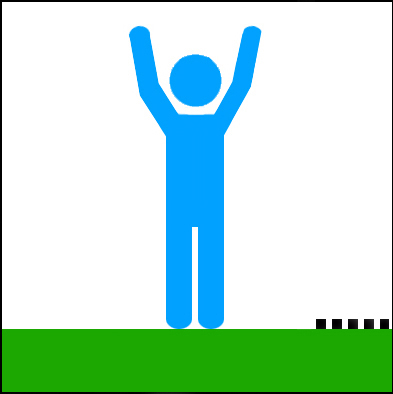
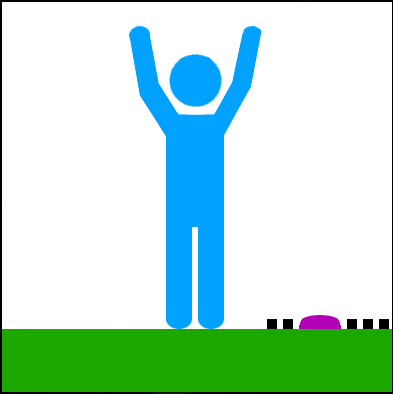
Implementing the winning or losing condition.
Now the user either wins or looses.

Changed region(s): [[0.6718, 0.7919, 0.9771, 0.8528]]

diff --git a/client/src/Games/TugOfWar/TugOfWar.jsx b/client/src/Games/TugOfWar/TugOfWar.jsx
@@ -27,6 +27,7 @@ export default function TugOfWar() {
   const [dice, setDice] = useState(-1);
   const [isDiceUpdated, setIsDiceUpdated] = useState(false);
   const [match1, setMatch1] = useState([Blue1, V1, V1, V1, V1, V1, V1, V2, V1, V1, V1, V1, V1, V1, Red1]);
+  const [finalMessage, setFinalMessage] = useState("");
 
   const handleStart = () => {
     setIsGameStarted(true);
@@ -49,43 +50,82 @@ export default function TugOfWar() {
   };
   const replaceElement = (arrFunc, firstEl, secEl) => {
     arrFunc((currArr) => currArr.map(el => el === firstEl ? secEl : el));
-  }
+  };
   const swapElements = (arrFunc, indexl, index2) => {
     arrFunc(currArr => {
         const newArr = [...currArr];
         [newArr[indexl], newArr[index2]] = [newArr[index2], newArr[indexl]];
         return newArr;
     });
+  };
+  const updateRopes = (arrFunc) => {
+    arrFunc(currArr =>
+        currArr.map(n => (n === V1 || n === V2 ? V3 : n))
+    );
   }
   const userAct = () => {
     if (userColor === "Blue") {
-        replaceElement(setMatch1, match1[0], Blue2);
-        replaceElement(setMatch1, match1[14], Red3);
-        swapElements(setMatch1, match1.indexOf(V2), match1.indexOf(V2) - dice);
+        if (match1.indexOf(V2) - dice < 1) {
+            replaceElement(setMatch1, match1[0], Blue4);
+            replaceElement(setMatch1, match1[14], Red5);
+updateRopes(setMatch1);
+            swapElements(setMatch1, match1.indexOf(V2), match1.indexOf(V2) + 1);
+            setFinalMessage("You Win!");
+        } else {
+            replaceElement(setMatch1, match1[0], Blue2);
+            replaceElement(setMatch1, match1[14], Red3);
+            swapElements(setMatch1, match1.indexOf(V2), match1.indexOf(V2) - dice);
+        }
     } else if (userColor === "Red") {
-        replaceElement(setMatch1, match1[14], Red2);
-        replaceElement(setMatch1, match1[0], Blue3);
-        swapElements(setMatch1, match1.indexOf(V2), match1.indexOf(V2) + dice);
+        if (match1.indexOf(V2) + dice > 13) {
+            replaceElement(setMatch1, match1[14], Red4);
+            replaceElement(setMatch1, match1[0], Blue5);
+updateRopes(setMatch1);
+            swapElements(setMatch1, match1.indexOf(V2), match1.indexOf(V2) - 1);
+            setFinalMessage("You Win!");
+        } else {
+            replaceElement(setMatch1, match1[14], Red2);
+            replaceElement(setMatch1, match1[0], Blue3);
+            swapElements(setMatch1, match1.indexOf(V2), match1.indexOf(V2) + dice);
+        }
     }
     setIsDiceUpdated(false);
     setIsUserTurn(false);
-  }
+  };
   const pejmanAct = () => {
     if (userColor === "Blue") {
-        replaceElement(setMatch1, match1[0], Blue3);
-        replaceElement(setMatch1, match1[14], Red2);
-        swapElements(setMatch1, match1.indexOf(V2), match1.indexOf(V2) + dice);
+        if (match1.indexOf(V2) + dice > 13) {
+            replaceElement(setMatch1, match1[0], Blue5);
+            replaceElement(setMatch1, match1[14], Red4);
+updateRopes(setMatch1);
+            swapElements(setMatch1, match1.indexOf(V2), match1.indexOf(V2) - 1);
+            setFinalMessage("Pejman Wins!");
+        } else {   
+            replaceElement(setMatch1, match1[0], Blue3);
+            replaceElement(setMatch1, match1[14], Red2);
+            swapElements(setMatch1, match1.indexOf(V2), match1.indexOf(V2) + dice);
+        }
     } else if (userColor === "Red") {
-        replaceElement(setMatch1, match1[14], Red3);
-        replaceElement(setMatch1, match1[0], Blue2);
-        swapElements(setMatch1, match1.indexOf(V2), match1.indexOf(V2) - dice);
+        if (match1.indexOf(V2) - dice < 1) {
+            replaceElement(setMatch1, match1[14], Red5);
+            replaceElement(setMatch1, match1[0], Blue4);
+updateRopes(setMatch1);
+            swapElements(setMatch1, match1.indexOf(V2), match1.indexOf(V2) + 1);
+            setFinalMessage("Pejman Wins!");
+        } else {
+            replaceElement(setMatch1, match1[14], Red3);
+            replaceElement(setMatch1, match1[0], Blue2);
+            swapElements(setMatch1, match1.indexOf(V2), match1.indexOf(V2) - dice);
+        }
     }
     setIsDiceUpdated(false);
     setIsUserTurn(true);
-  }
+  };
   return (
     <div>
       <h2>Tug of War</h2>
+      {finalMessage && finalMessage === "You Win!" && <h3>You Win!</h3>}
+      {finalMessage && finalMessage === "Pejman Wins!" && <h3>Pejman Wins!</h3>}
       {!isGameStarted && userColor === "" && (
         <div>
           <label htmlFor="userColor">Select a Color</label>
@@ -111,10 +151,10 @@ export default function TugOfWar() {
       }
 
 
-      {isGameStarted && isUserTurn && !isDiceUpdated && 
+      {isGameStarted && isUserTurn && !isDiceUpdated && finalMessage === "" &&
         <button onClick={rollDice}>Roll the Dice</button>
       }
-      {isGameStarted && !isUserTurn && !isDiceUpdated &&
+      {isGameStarted && !isUserTurn && !isDiceUpdated && finalMessage === "" &&
         <div>
             <div>Allow Pejman to roll the dice</div>
             <button onClick={rollDice}>Ok</button>
@@ -131,10 +171,10 @@ export default function TugOfWar() {
             {dice === 6 && <img src={Dice6} width="50px" />}
           </div>
       )}
-      {isGameStarted && isUserTurn && isDiceUpdated && dice > 0 &&
+      {isGameStarted && isUserTurn && isDiceUpdated && dice > 0 && finalMessage === "" &&
         <button onClick={userAct} style={{position: "relative", top: "5px"}}>Act</button>
       }
-      {isGameStarted && !isUserTurn && isDiceUpdated && dice > 0 &&
+      {isGameStarted && !isUserTurn && isDiceUpdated && dice > 0 && finalMessage === "" &&
         <div>
             <div>Allow Pejman to make his move</div>
             <button onClick={pejmanAct} style={{position: "relative", top: "5px"}}>Ok</button>
